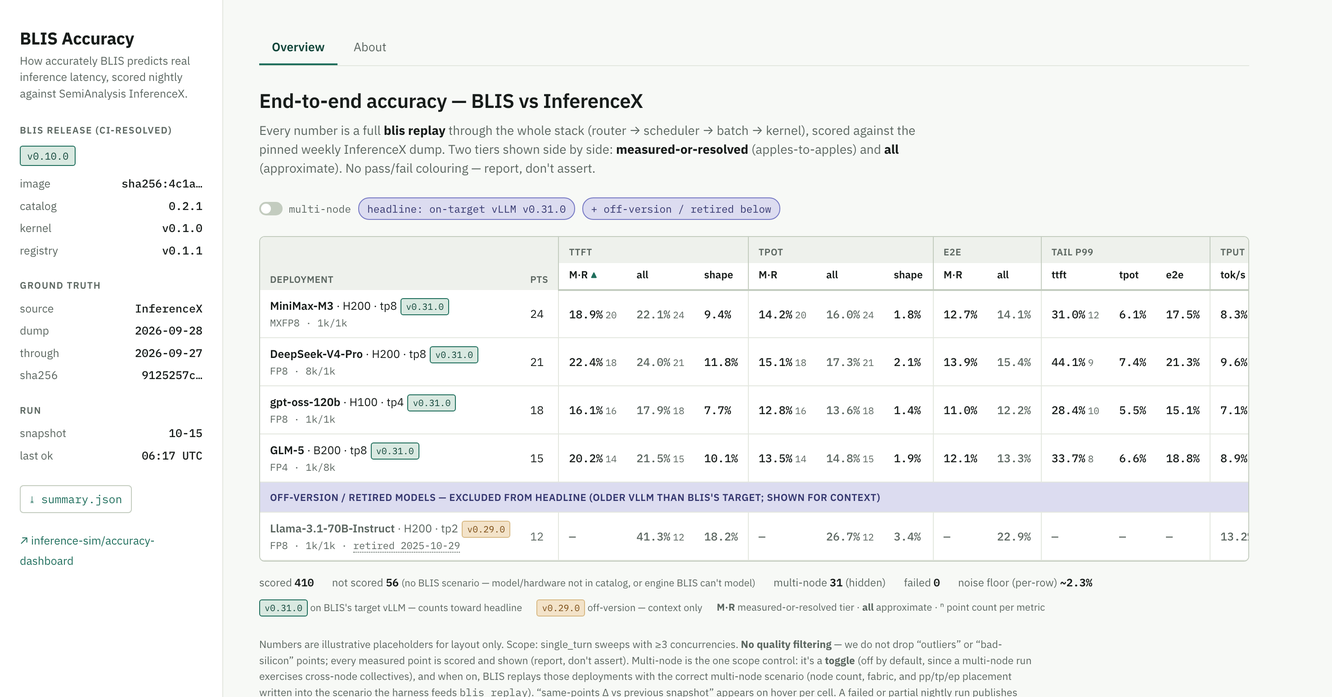
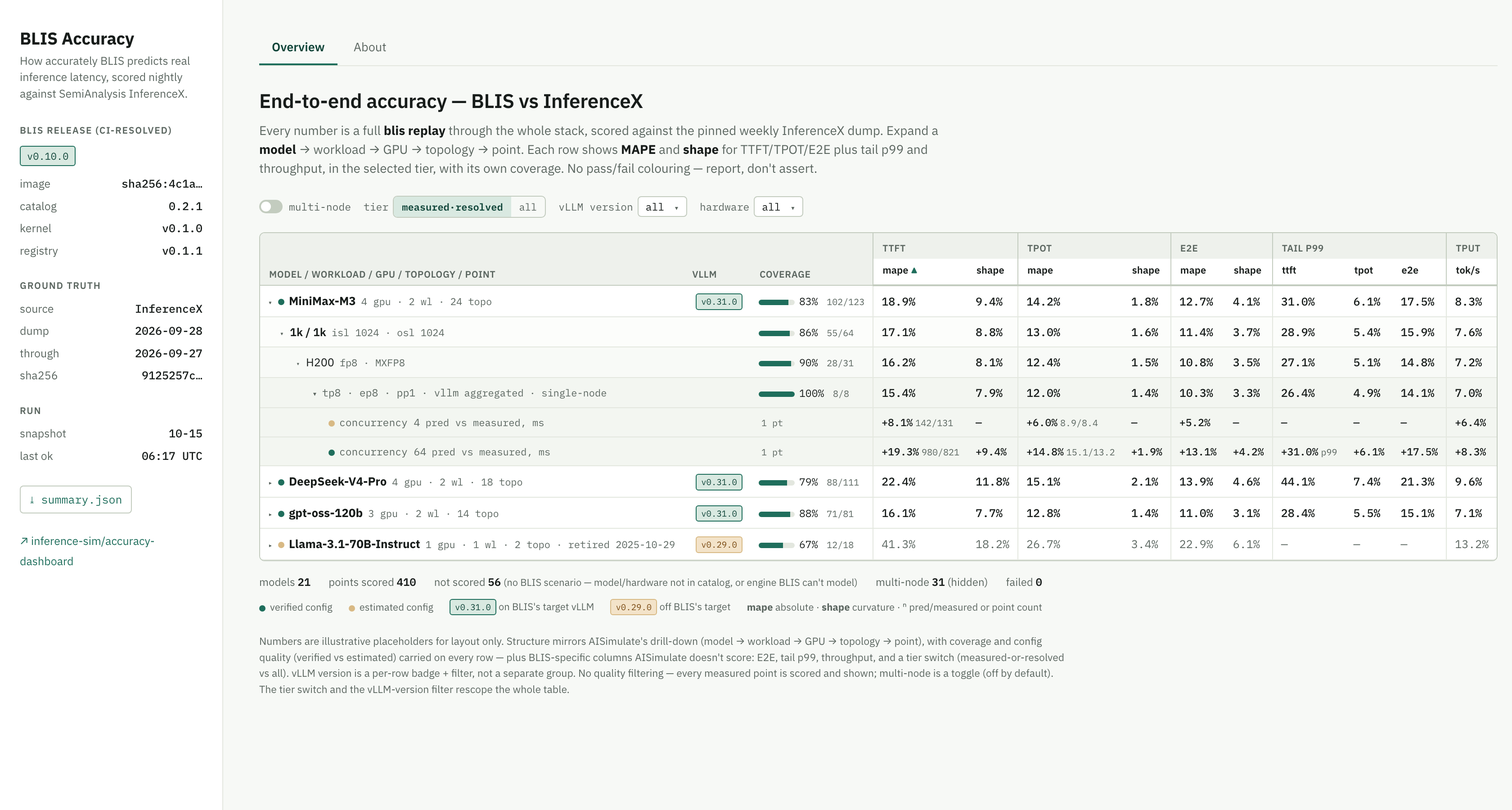
docs: adopt AISimulate drill-down table; version as filter not split
Rebuild the Overview table to mirror AISimulate's hierarchy
(model -> workload -> GPU -> topology -> point), with coverage and config
quality (verified/estimated) carried on every row, as their summary.json does.
Keep BLIS's extra columns (E2E, tail p99, throughput) and the measured-or-
resolved/all tier switch. Drop the "headline/off-version" banded group: vLLM
version is now a per-row badge + a table-wide filter, so an off-target model
(e.g. retired Llama-3.1-70B on v0.29.0) is just a normal row with an amber badge.

diff --git a/docs/mockups/overview-v0.1.0.html b/docs/mockups/overview-v0.1.0.html
@@ -15,7 +15,7 @@
 *{box-sizing:border-box}
 body{margin:0;background:var(--paper);color:var(--ink);font-family:var(--font-sans);font-size:15px;line-height:1.5;-webkit-font-smoothing:antialiased}
 .layout{display:grid;grid-template-columns:248px 1fr;min-height:100vh}
-/* ---- sidebar rail (leaderboard pattern) ---- */
+/* ---- sidebar rail ---- */
 .rail{border-right:1px solid var(--line);padding:28px 22px;background:var(--panel)}
 .rail h1{font-size:19px;font-weight:700;letter-spacing:-0.01em;margin:0 0 2px}
 .rail .sub{color:var(--muted);font-size:12.5px;margin:0 0 24px;line-height:1.45}
@@ -27,76 +27,88 @@ body{margin:0;background:var(--paper);color:var(--ink);font-family:var(--font-sa
 .rail a{color:var(--accent);text-decoration:none;font-size:12.5px}
 .dl{margin-top:18px;display:inline-block;font-size:12px;font-family:var(--font-mono);border:1px solid var(--line-strong);padding:5px 10px;border-radius:4px;color:var(--accent-ink);text-decoration:none}
 /* ---- main ---- */
-.main{padding:34px 40px 60px;max-width:1180px}
+.main{padding:34px 40px 60px;max-width:1560px}
 .tabs{display:flex;gap:4px;border-bottom:1px solid var(--line);margin-bottom:22px}
-.tab{padding:8px 14px;font-size:13.5px;color:var(--muted);border-bottom:2px solid transparent;cursor:default}
+.tab{padding:8px 14px;font-size:13.5px;color:var(--muted);border-bottom:2px solid transparent}
 .tab.on{color:var(--accent-ink);border-bottom-color:var(--accent);font-weight:600}
 h2.viewhead{margin:0 0 6px;font-size:22px;font-weight:600;letter-spacing:-0.01em}
-.dek{color:var(--muted);font-size:14px;margin:0 0 22px;max-width:760px}
+.dek{color:var(--muted);font-size:14px;margin:0 0 20px;max-width:780px}
 .dek b{color:var(--ink)}
-/* ---- scope chips ---- */
-.chips{display:flex;gap:8px;flex-wrap:wrap;margin-bottom:18px;align-items:center}
-.chip{font-size:11.5px;font-family:var(--font-mono);padding:3px 9px;border-radius:12px;border:1px solid var(--line-strong);color:var(--muted);background:var(--panel)}
-.chip.off{text-decoration:line-through;opacity:.65}
-.chip.grp{border-color:var(--alt-line);color:var(--alt-ink);background:var(--alt-bg)}
-/* multi-node on/off toggle */
-.toggle{display:inline-flex;align-items:center;gap:7px;font-size:11.5px;font-family:var(--font-mono);color:var(--muted);cursor:default}
+/* ---- controls ---- */
+.chips{display:flex;gap:14px;flex-wrap:wrap;margin-bottom:16px;align-items:center}
+.toggle{display:inline-flex;align-items:center;gap:7px;font-size:11.5px;font-family:var(--font-mono);color:var(--muted)}
 .toggle .sw{width:26px;height:15px;border-radius:8px;background:var(--line-strong);position:relative;display:inline-block}
 .toggle .sw .dot{position:absolute;top:2px;left:2px;width:11px;height:11px;border-radius:50%;background:#fff}
 .toggle.on{color:var(--accent-ink)}
 .toggle.on .sw{background:var(--accent)}
 .toggle.on .sw .dot{left:13px}
+.flt{font-size:11.5px;font-family:var(--font-mono);color:var(--muted);display:inline-flex;align-items:center;gap:5px}
+.flt .box{border:1px solid var(--line-strong);border-radius:4px;padding:2px 8px;background:var(--panel);color:var(--ink)}
+.flt .box .car{color:var(--muted);margin-left:4px;font-size:9px}
+.tierseg{display:inline-flex;border:1px solid var(--line-strong);border-radius:5px;overflow:hidden;font-size:11px;font-family:var(--font-mono)}
+.tierseg span{padding:3px 9px;color:var(--muted)}
+.tierseg span.on{background:var(--accent-soft);color:var(--accent-ink);font-weight:600}
 /* ---- table ---- */
 .tscroll{border:1px solid var(--line-strong);border-radius:6px;overflow:hidden;background:var(--panel)}
 table.readout{width:100%;border-collapse:collapse;font-size:12.5px;background:var(--panel)}
-table.readout th,table.readout td{padding:8px 11px;text-align:left;vertical-align:middle;border-bottom:1px solid var(--line);white-space:nowrap}
-thead tr.grp th{padding:9px 11px 4px;font-size:10.5px;font-weight:600;color:var(--muted);letter-spacing:0.03em;text-transform:uppercase;border-bottom:none;background:#eef1ec}
+table.readout th,table.readout td{padding:7px 9px;text-align:left;vertical-align:middle;border-bottom:1px solid var(--line);white-space:nowrap}
+table.readout td.num,table.readout td .num{font-variant-numeric:tabular-nums}
+thead tr.grp th{padding:9px 10px 4px;font-size:10.5px;font-weight:600;color:var(--muted);letter-spacing:0.03em;text-transform:uppercase;border-bottom:none;background:#eef1ec}
 thead tr.grp th.sep{border-left:1px solid var(--line-strong)}
-thead tr.col th{padding:4px 11px 8px;font-weight:600;font-size:11.5px;background:var(--panel);border-bottom:2px solid var(--line-strong);color:var(--ink)}
+thead tr.col th{padding:4px 10px 8px;font-weight:600;font-size:11px;background:var(--panel);border-bottom:2px solid var(--line-strong);color:var(--ink)}
 thead tr.col th.sep{border-left:1px solid var(--line-strong)}
 thead tr.col th .arrow{color:var(--accent);font-size:10px}
 td.sep{border-left:1px solid var(--line)}
 .mono{font-family:var(--font-mono)}
 td .num{font-family:var(--font-mono);font-weight:500}
-td .n{font-family:var(--font-mono);font-size:10.5px;color:var(--muted);margin-left:3px}
-.dep .m{font-weight:600}
-.dep .cfg{color:var(--muted);font-size:11px;font-family:var(--font-mono)}
-tr:hover td{background:#fbfdfa}
-.tier-mr{background:#fcfdfb}
-.tier-all{color:var(--muted)}
-.noise{font-size:10px;color:var(--muted);font-family:var(--font-mono)}
-.ver{display:inline-block;font-size:10px;font-family:var(--font-mono);padding:1px 5px;border-radius:3px;background:var(--accent-soft);color:var(--accent-ink);border:1px solid var(--accent);margin-left:4px}
+td .n{font-family:var(--font-mono);font-size:10px;color:var(--muted);margin-left:3px}
+.num.all{color:var(--muted);font-weight:400}
+/* drill-down rows */
+.r0 td{background:var(--panel)}
+.r0 .name{font-weight:700;font-size:13px}
+.r0 .tw{color:var(--accent);font-family:var(--font-mono);font-size:11px;margin-right:4px}
+.r1 td{background:#fcfdfb}
+.r1 .name{padding-left:22px;font-weight:600}
+.r2 td{background:#f8faf7}
+.r2 .name{padding-left:40px;color:var(--ink)}
+.r3 td{background:#f3f6f1}
+.r3 .name{padding-left:58px;color:var(--muted);font-family:var(--font-mono);font-size:11.5px}
+.r0 td{border-top:1px solid var(--line-strong)}
+.caret{display:inline-block;width:11px;color:var(--muted);font-size:9px}
+.facet{color:var(--muted);font-size:11px;font-weight:400;font-family:var(--font-mono);margin-left:6px}
+/* badges */
+.ver{display:inline-block;font-size:9.5px;font-family:var(--font-mono);padding:1px 5px;border-radius:3px;background:var(--accent-soft);color:var(--accent-ink);border:1px solid var(--accent);margin-left:5px}
 .ver.off{background:var(--warn-bg);color:var(--warn-ink);border-color:var(--warn-line)}
-.dotted{border-bottom:1px dotted var(--muted)}
-.grouphdr td{background:var(--alt-bg);color:var(--alt-ink);font-weight:600;font-size:11px;letter-spacing:0.03em;text-transform:uppercase;padding:6px 11px;border-bottom:1px solid var(--alt-line)}
+.q{display:inline-block;width:7px;height:7px;border-radius:50%;vertical-align:middle;margin-right:5px}
+.q.ver_{background:var(--accent)}
+.q.est{background:var(--warn-line)}
+.cov{font-family:var(--font-mono);font-size:11.5px}
+.cov .bar{display:inline-block;width:40px;height:6px;border-radius:3px;background:var(--line);vertical-align:middle;margin-right:5px;position:relative;overflow:hidden}
+.cov .bar i{position:absolute;left:0;top:0;bottom:0;background:var(--accent)}
+.cov .fail{color:var(--crit-ink,#7a1f1f)}
 .coverage{margin-top:14px;font-size:12px;color:var(--muted);display:flex;gap:20px;flex-wrap:wrap}
 .coverage b{color:var(--ink);font-family:var(--font-mono);font-weight:600}
 .coverage .nscov{font-family:var(--font-sans);font-size:11px;color:var(--muted)}
-.foot{margin-top:22px;font-size:11.5px;color:var(--muted);max-width:860px;line-height:1.55}
-.legend{margin-top:10px;font-size:11px;color:var(--muted);display:flex;gap:16px;flex-wrap:wrap}
-.legend span .ver{margin-left:0}
+.legend{margin-top:10px;font-size:11px;color:var(--muted);display:flex;gap:18px;flex-wrap:wrap;align-items:center}
+.foot{margin-top:20px;font-size:11.5px;color:var(--muted);max-width:900px;line-height:1.55}
 </style>
 </head>
 <body>
 <div class="layout">
-  <!-- SIDEBAR / PROVENANCE RAIL (leaderboard) -->
   <aside class="rail">
     <h1>BLIS Accuracy</h1>
     <p class="sub">How accurately BLIS predicts real inference latency, scored nightly against SemiAnalysis InferenceX.</p>
-
     <div class="seclabel">BLIS release (CI-resolved)</div>
     <span class="pill">v0.10.0</span>
     <div class="kv" style="margin-top:10px"><span class="k">image</span><span class="v">sha256:4c1a…</span></div>
     <div class="kv"><span class="k">catalog</span><span class="v">0.2.1</span></div>
     <div class="kv"><span class="k">kernel</span><span class="v">v0.1.0</span></div>
     <div class="kv"><span class="k">registry</span><span class="v">v0.1.1</span></div>
-
     <div class="seclabel">Ground truth</div>
     <div class="kv"><span class="k">source</span><span class="v">InferenceX</span></div>
     <div class="kv"><span class="k">dump</span><span class="v">2026-09-28</span></div>
     <div class="kv"><span class="k">through</span><span class="v">2026-09-27</span></div>
     <div class="kv"><span class="k">sha256</span><span class="v">9125257c…</span></div>
-
     <div class="seclabel">Run</div>
     <div class="kv"><span class="k">snapshot</span><span class="v">10-15</span></div>
     <div class="kv"><span class="k">last ok</span><span class="v">06:17 UTC</span></div>
@@ -104,105 +116,142 @@ tr:hover td{background:#fbfdfa}
     <div style="margin-top:18px"><a href="#">↗ inference-sim/accuracy-dashboard</a></div>
   </aside>
 
-  <!-- MAIN -->
   <main class="main">
-    <div class="tabs">
-      <div class="tab on">Overview</div>
-      <div class="tab">About</div>
-    </div>
-
+    <div class="tabs"><div class="tab on">Overview</div><div class="tab">About</div></div>
     <h2 class="viewhead">End-to-end accuracy — BLIS vs InferenceX</h2>
-    <p class="dek">Every number is a full <b>blis replay</b> through the whole stack (router → scheduler → batch → kernel), scored against the pinned weekly InferenceX dump. Two tiers shown side by side: <b>measured-or-resolved</b> (apples-to-apples) and <b>all</b> (approximate). No pass/fail colouring — report, don't assert.</p>
+    <p class="dek">Every number is a full <b>blis replay</b> through the whole stack, scored against the pinned weekly InferenceX dump. Expand a <b>model</b> → workload → GPU → topology → point. Each row shows <b>MAPE</b> and <b>shape</b> for TTFT/TPOT/E2E plus tail p99 and throughput, in the selected tier, with its own coverage. No pass/fail colouring — report, don't assert.</p>
 
     <div class="chips">
       <span class="toggle"><span class="sw"><span class="dot"></span></span>multi-node</span>
-      <span class="chip grp">headline: on-target vLLM v0.31.0</span>
-      <span class="chip grp">+ off-version / retired below</span>
+      <span class="flt">tier <span class="tierseg"><span class="on">measured·resolved</span><span>all</span></span></span>
+      <span class="flt">vLLM version <span class="box">all <span class="car">▾</span></span></span>
+      <span class="flt">hardware <span class="box">all <span class="car">▾</span></span></span>
     </div>
 
     <div class="tscroll">
       <table class="readout">
         <thead>
           <tr class="grp">
-            <th rowspan="2" style="vertical-align:bottom">Deployment</th>
-            <th rowspan="2" style="vertical-align:bottom">pts</th>
-            <th class="sep" colspan="3">TTFT</th>
-            <th class="sep" colspan="3">TPOT</th>
+            <th rowspan="2" style="vertical-align:bottom">Model / workload / GPU / topology / point</th>
+            <th rowspan="2" style="vertical-align:bottom">vLLM</th>
+            <th rowspan="2" style="vertical-align:bottom">coverage</th>
+            <th class="sep" colspan="2">TTFT</th>
+            <th class="sep" colspan="2">TPOT</th>
             <th class="sep" colspan="2">E2E</th>
             <th class="sep" colspan="3">Tail p99</th>
             <th class="sep">Tput</th>
           </tr>
           <tr class="col">
-            <th class="sep">M·R <span class="arrow">▲</span></th><th>all</th><th>shape</th>
-            <th class="sep">M·R</th><th>all</th><th>shape</th>
-            <th class="sep">M·R</th><th>all</th>
+            <th class="sep">mape <span class="arrow">▲</span></th><th>shape</th>
+            <th class="sep">mape</th><th>shape</th>
+            <th class="sep">mape</th><th>shape</th>
             <th class="sep">ttft</th><th>tpot</th><th>e2e</th>
             <th class="sep">tok/s</th>
           </tr>
         </thead>
         <tbody>
-          <!-- HEADLINE GROUP -->
-          <tr><td class="dep"><span class="m">MiniMax-M3</span> · H200 · tp8<span class="ver">v0.31.0</span><div class="cfg">MXFP8 · 1k/1k</div></td>
-            <td class="mono">24</td>
-            <td class="sep"><span class="num">18.9%</span><span class="n">20</span></td><td class="tier-all"><span class="num">22.1%</span><span class="n">24</span></td><td><span class="num">9.4%</span></td>
-            <td class="sep"><span class="num">14.2%</span><span class="n">20</span></td><td class="tier-all"><span class="num">16.0%</span><span class="n">24</span></td><td><span class="num">1.8%</span></td>
-            <td class="sep"><span class="num">12.7%</span></td><td class="tier-all"><span class="num">14.1%</span></td>
-            <td class="sep"><span class="num">31.0%</span><span class="n">12</span></td><td><span class="num">6.1%</span></td><td><span class="num">17.5%</span></td>
+          <!-- MODEL (level 0) -->
+          <tr class="r0"><td class="name"><span class="caret">▾</span><span class="q ver_"></span>MiniMax-M3<span class="facet">4 gpu · 2 wl · 24 topo</span></td>
+            <td><span class="ver">v0.31.0</span></td>
+            <td><span class="cov"><span class="bar"><i style="width:83%"></i></span>83% <span class="n">102/123</span></span></td>
+            <td class="sep"><span class="num">18.9%</span></td><td><span class="num">9.4%</span></td>
+            <td class="sep"><span class="num">14.2%</span></td><td><span class="num">1.8%</span></td>
+            <td class="sep"><span class="num">12.7%</span></td><td><span class="num">4.1%</span></td>
+            <td class="sep"><span class="num">31.0%</span></td><td><span class="num">6.1%</span></td><td><span class="num">17.5%</span></td>
             <td class="sep"><span class="num">8.3%</span></td></tr>
 
-          <tr><td class="dep"><span class="m">DeepSeek-V4-Pro</span> · H200 · tp8<span class="ver">v0.31.0</span><div class="cfg">FP8 · 8k/1k</div></td>
-            <td class="mono">21</td>
-            <td class="sep"><span class="num">22.4%</span><span class="n">18</span></td><td class="tier-all"><span class="num">24.0%</span><span class="n">21</span></td><td><span class="num">11.8%</span></td>
-            <td class="sep"><span class="num">15.1%</span><span class="n">18</span></td><td class="tier-all"><span class="num">17.3%</span><span class="n">21</span></td><td><span class="num">2.1%</span></td>
-            <td class="sep"><span class="num">13.9%</span></td><td class="tier-all"><span class="num">15.4%</span></td>
-            <td class="sep"><span class="num">44.1%</span><span class="n">9</span></td><td><span class="num">7.4%</span></td><td><span class="num">21.3%</span></td>
+          <!-- WORKLOAD (level 1) -->
+          <tr class="r1"><td class="name"><span class="caret">▾</span>1k / 1k<span class="facet">isl 1024 · osl 1024</span></td>
+            <td></td><td><span class="cov"><span class="bar"><i style="width:86%"></i></span>86% <span class="n">55/64</span></span></td>
+            <td class="sep"><span class="num">17.1%</span></td><td><span class="num">8.8%</span></td>
+            <td class="sep"><span class="num">13.0%</span></td><td><span class="num">1.6%</span></td>
+            <td class="sep"><span class="num">11.4%</span></td><td><span class="num">3.7%</span></td>
+            <td class="sep"><span class="num">28.9%</span></td><td><span class="num">5.4%</span></td><td><span class="num">15.9%</span></td>
+            <td class="sep"><span class="num">7.6%</span></td></tr>
+
+          <!-- GPU (level 2) -->
+          <tr class="r2"><td class="name"><span class="caret">▾</span>H200<span class="facet">fp8 · MXFP8</span></td>
+            <td></td><td><span class="cov"><span class="bar"><i style="width:90%"></i></span>90% <span class="n">28/31</span></span></td>
+            <td class="sep"><span class="num">16.2%</span></td><td><span class="num">8.1%</span></td>
+            <td class="sep"><span class="num">12.4%</span></td><td><span class="num">1.5%</span></td>
+            <td class="sep"><span class="num">10.8%</span></td><td><span class="num">3.5%</span></td>
+            <td class="sep"><span class="num">27.1%</span></td><td><span class="num">5.1%</span></td><td><span class="num">14.8%</span></td>
+            <td class="sep"><span class="num">7.2%</span></td></tr>
+
+          <!-- TOPOLOGY (level 3) -->
+          <tr class="r3"><td class="name"><span class="caret">▾</span>tp8 · ep8 · pp1 · vllm<span class="facet">aggregated · single-node</span></td>
+            <td></td><td><span class="cov"><span class="bar"><i style="width:100%"></i></span>100% <span class="n">8/8</span></span></td>
+            <td class="sep"><span class="num">15.4%</span></td><td><span class="num">7.9%</span></td>
+            <td class="sep"><span class="num">12.0%</span></td><td><span class="num">1.4%</span></td>
+            <td class="sep"><span class="num">10.3%</span></td><td><span class="num">3.3%</span></td>
+            <td class="sep"><span class="num">26.4%</span></td><td><span class="num">4.9%</span></td><td><span class="num">14.1%</span></td>
+            <td class="sep"><span class="num">7.0%</span></td></tr>
+
+          <!-- POINTS (leaf) : predicted vs measured per concurrency -->
+          <tr class="r3" style="font-size:11.5px"><td class="name" style="padding-left:76px"><span class="q est"></span>concurrency 4<span class="facet">pred vs measured, ms</span></td>
+            <td></td><td><span class="cov n">1 pt</span></td>
+            <td class="sep"><span class="num">+8.1%</span><span class="n">142/131</span></td><td><span class="num">—</span></td>
+            <td class="sep"><span class="num">+6.0%</span><span class="n">8.9/8.4</span></td><td><span class="num">—</span></td>
+            <td class="sep"><span class="num">+5.2%</span></td><td><span class="num">—</span></td>
+            <td class="sep"><span class="num">—</span></td><td><span class="num">—</span></td><td><span class="num">—</span></td>
+            <td class="sep"><span class="num">+6.4%</span></td></tr>
+          <tr class="r3" style="font-size:11.5px"><td class="name" style="padding-left:76px"><span class="q ver_"></span>concurrency 64<span class="facet">pred vs measured, ms</span></td>
+            <td></td><td><span class="cov n">1 pt</span></td>
+            <td class="sep"><span class="num">+19.3%</span><span class="n">980/821</span></td><td><span class="num">+9.4%</span></td>
+            <td class="sep"><span class="num">+14.8%</span><span class="n">15.1/13.2</span></td><td><span class="num">+1.9%</span></td>
+            <td class="sep"><span class="num">+13.1%</span></td><td><span class="num">+4.2%</span></td>
+            <td class="sep"><span class="num">+31.0%</span><span class="n">p99</span></td><td><span class="num">+6.1%</span></td><td><span class="num">+17.5%</span></td>
+            <td class="sep"><span class="num">+8.3%</span></td></tr>
+
+          <!-- next model collapsed -->
+          <tr class="r0"><td class="name"><span class="caret">▸</span><span class="q ver_"></span>DeepSeek-V4-Pro<span class="facet">4 gpu · 2 wl · 18 topo</span></td>
+            <td><span class="ver">v0.31.0</span></td>
+            <td><span class="cov"><span class="bar"><i style="width:79%"></i></span>79% <span class="n">88/111</span></span></td>
+            <td class="sep"><span class="num">22.4%</span></td><td><span class="num">11.8%</span></td>
+            <td class="sep"><span class="num">15.1%</span></td><td><span class="num">2.1%</span></td>
+            <td class="sep"><span class="num">13.9%</span></td><td><span class="num">4.6%</span></td>
+            <td class="sep"><span class="num">44.1%</span></td><td><span class="num">7.4%</span></td><td><span class="num">21.3%</span></td>
             <td class="sep"><span class="num">9.6%</span></td></tr>
 
-          <tr><td class="dep"><span class="m">gpt-oss-120b</span> · H100 · tp4<span class="ver">v0.31.0</span><div class="cfg">FP8 · 1k/1k</div></td>
-            <td class="mono">18</td>
-            <td class="sep"><span class="num">16.1%</span><span class="n">16</span></td><td class="tier-all"><span class="num">17.9%</span><span class="n">18</span></td><td><span class="num">7.7%</span></td>
-            <td class="sep"><span class="num">12.8%</span><span class="n">16</span></td><td class="tier-all"><span class="num">13.6%</span><span class="n">18</span></td><td><span class="num">1.4%</span></td>
-            <td class="sep"><span class="num">11.0%</span></td><td class="tier-all"><span class="num">12.2%</span></td>
-            <td class="sep"><span class="num">28.4%</span><span class="n">10</span></td><td><span class="num">5.5%</span></td><td><span class="num">15.1%</span></td>
+          <tr class="r0"><td class="name"><span class="caret">▸</span><span class="q ver_"></span>gpt-oss-120b<span class="facet">3 gpu · 2 wl · 14 topo</span></td>
+            <td><span class="ver">v0.31.0</span></td>
+            <td><span class="cov"><span class="bar"><i style="width:88%"></i></span>88% <span class="n">71/81</span></span></td>
+            <td class="sep"><span class="num">16.1%</span></td><td><span class="num">7.7%</span></td>
+            <td class="sep"><span class="num">12.8%</span></td><td><span class="num">1.4%</span></td>
+            <td class="sep"><span class="num">11.0%</span></td><td><span class="num">3.1%</span></td>
+            <td class="sep"><span class="num">28.4%</span></td><td><span class="num">5.5%</span></td><td><span class="num">15.1%</span></td>
             <td class="sep"><span class="num">7.1%</span></td></tr>
 
-          <tr><td class="dep"><span class="m">GLM-5</span> · B200 · tp8<span class="ver">v0.31.0</span><div class="cfg">FP4 · 1k/8k</div></td>
-            <td class="mono">15</td>
-            <td class="sep"><span class="num">20.2%</span><span class="n">14</span></td><td class="tier-all"><span class="num">21.5%</span><span class="n">15</span></td><td><span class="num">10.1%</span></td>
-            <td class="sep"><span class="num">13.5%</span><span class="n">14</span></td><td class="tier-all"><span class="num">14.8%</span><span class="n">15</span></td><td><span class="num">1.9%</span></td>
-            <td class="sep"><span class="num">12.1%</span></td><td class="tier-all"><span class="num">13.3%</span></td>
-            <td class="sep"><span class="num">33.7%</span><span class="n">8</span></td><td><span class="num">6.6%</span></td><td><span class="num">18.8%</span></td>
-            <td class="sep"><span class="num">8.9%</span></td></tr>
-
-          <!-- OFF-VERSION / RETIRED GROUP -->
-          <tr class="grouphdr"><td colspan="14">Off-version / retired models — excluded from headline (older vLLM than BLIS's target; shown for context)</td></tr>
-
-          <tr class="tier-all"><td class="dep"><span class="m">Llama-3.1-70B-Instruct</span> · H200 · tp2<span class="ver off">v0.29.0</span><div class="cfg">FP8 · 1k/1k · <span class="dotted">retired 2025-10-29</span></div></td>
-            <td class="mono">12</td>
-            <td class="sep"><span class="num">—</span></td><td><span class="num">41.3%</span><span class="n">12</span></td><td><span class="num">18.2%</span></td>
-            <td class="sep"><span class="num">—</span></td><td><span class="num">26.7%</span><span class="n">12</span></td><td><span class="num">3.4%</span></td>
-            <td class="sep"><span class="num">—</span></td><td><span class="num">22.9%</span></td>
-            <td class="sep"><span class="num">—</span></td><td><span class="num">—</span></td><td><span class="num">—</span></td>
-            <td class="sep"><span class="num">13.2%</span></td></tr>
+          <!-- an off-version model, now just a normal row with an amber badge (no banded group) -->
+          <tr class="r0"><td class="name"><span class="caret">▸</span><span class="q est"></span>Llama-3.1-70B-Instruct<span class="facet">1 gpu · 1 wl · 2 topo · retired 2025-10-29</span></td>
+            <td><span class="ver off">v0.29.0</span></td>
+            <td><span class="cov"><span class="bar"><i style="width:67%"></i></span>67% <span class="n">12/18</span></span></td>
+            <td class="sep"><span class="num all">41.3%</span></td><td><span class="num all">18.2%</span></td>
+            <td class="sep"><span class="num all">26.7%</span></td><td><span class="num all">3.4%</span></td>
+            <td class="sep"><span class="num all">22.9%</span></td><td><span class="num all">6.1%</span></td>
+            <td class="sep"><span class="num all">—</span></td><td><span class="num all">—</span></td><td><span class="num all">—</span></td>
+            <td class="sep"><span class="num all">13.2%</span></td></tr>
         </tbody>
       </table>
     </div>
 
     <div class="coverage">
-      <span>scored <b>410</b></span>
+      <span>models <b>21</b></span>
+      <span>points scored <b>410</b></span>
       <span>not scored <b>56</b> <span class="nscov">(no BLIS scenario — model/hardware not in catalog, or engine BLIS can't model)</span></span>
       <span>multi-node <b>31</b> (hidden)</span>
       <span>failed <b>0</b></span>
-      <span>noise floor (per-row) <b>~2.3%</b></span>
     </div>
 
     <div class="legend">
-      <span><span class="ver">v0.31.0</span> on BLIS's target vLLM — counts toward headline</span>
-      <span><span class="ver off">v0.29.0</span> off-version — context only</span>
-      <span><b>M·R</b> measured-or-resolved tier · <b>all</b> approximate · <span class="n" style="margin:0">ⁿ</span> point count per metric</span>
+      <span><span class="q ver_"></span>verified config</span>
+      <span><span class="q est"></span>estimated config</span>
+      <span><span class="ver" style="margin:0">v0.31.0</span> on BLIS's target vLLM</span>
+      <span><span class="ver off" style="margin:0">v0.29.0</span> off BLIS's target</span>
+      <span><b>mape</b> absolute · <b>shape</b> curvature · <span class="n" style="margin:0">ⁿ</span> pred/measured or point count</span>
     </div>
 
-    <p class="foot">Numbers are illustrative placeholders for layout only. Scope: single_turn sweeps with ≥3 concurrencies. <b>No quality filtering</b> — we do not drop “outliers” or “bad-silicon” points; every measured point is scored and shown (report, don't assert). Multi-node is the one scope control: it's a <b>toggle</b> (off by default, since a multi-node run exercises cross-node collectives), and when on, BLIS replays those deployments with the correct multi-node scenario (node count, fabric, and pp/tp/ep placement written into the scenario the harness feeds <span class="mono">blis replay</span>). “same-points Δ vs previous snapshot” appears on hover per cell. A failed or partial nightly run publishes nothing and leaves the previous snapshot in place.</p>
+    <p class="foot">Numbers are illustrative placeholders for layout only. Structure mirrors AISimulate's drill-down (model → workload → GPU → topology → point), with coverage and config quality (verified vs estimated) carried on every row — plus BLIS-specific columns AISimulate doesn't score: E2E, tail p99, throughput, and a tier switch (measured-or-resolved vs all). vLLM version is a per-row badge + filter, not a separate group. No quality filtering — every measured point is scored and shown; multi-node is a toggle (off by default). The tier switch and the vLLM-version filter rescope the whole table.</p>
   </main>
 </div>
 </body>
